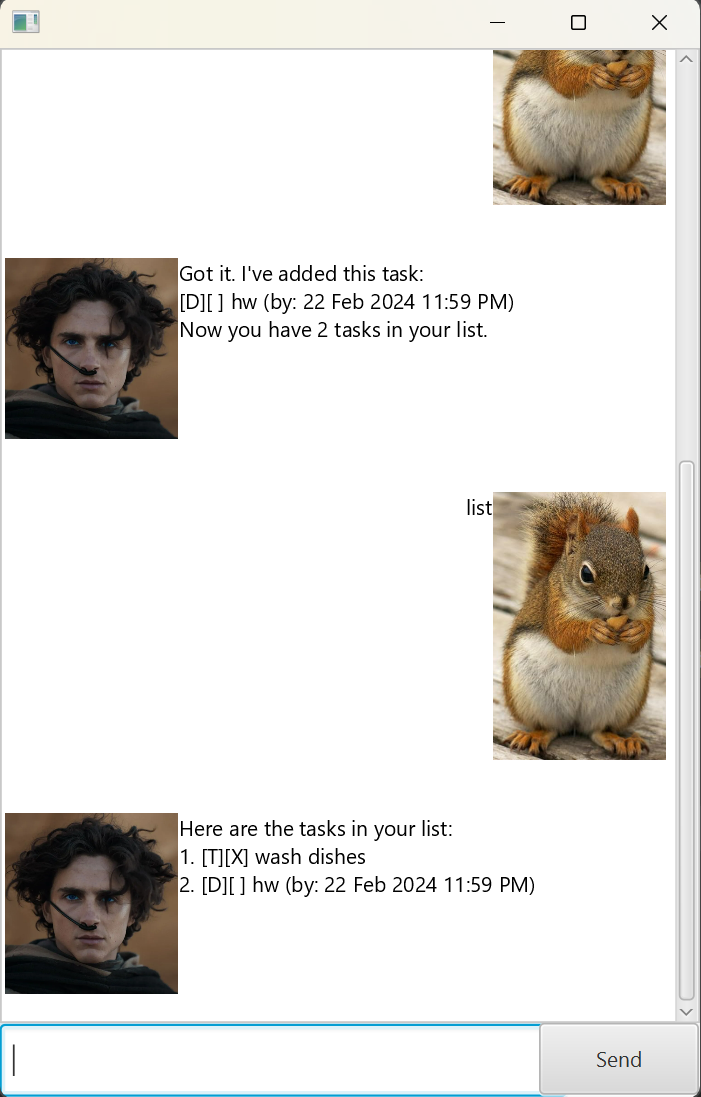
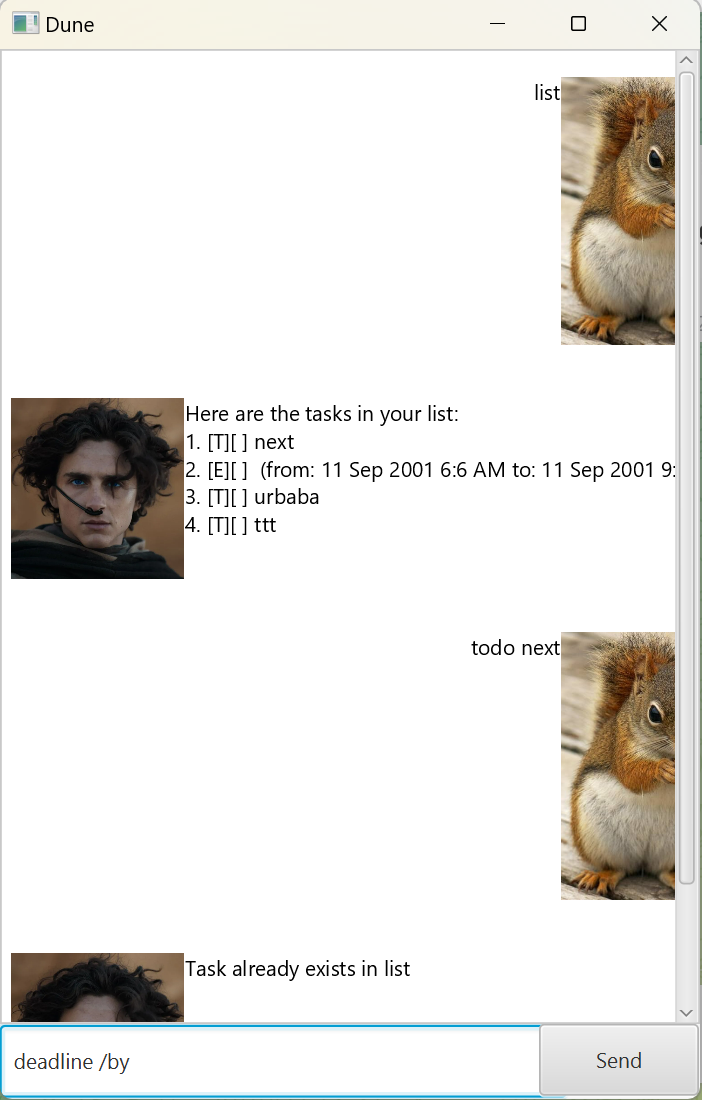
Update README

Changed region(s): [[0.0, 0.0, 1.0, 1.0], [0.0, 0.0, 0.1498, 0.031], [0.5692, 0.8058, 0.5991, 0.8368]]

diff --git a/src/main/java/dune/MainWindow.java b/src/main/java/dune/MainWindow.java
@@ -60,7 +60,7 @@ public class MainWindow extends AnchorPane {
                 DialogBox.getUserDialog(userText, userPic),
                 DialogBox.getDukeDialog(duneText, dunePic)
         );
-        if (userText.equals("bye")) {
+        if (userText.toLowerCase().startsWith("bye")) {
             // Create a PauseTransition to introduce a delay
             PauseTransition delay = new PauseTransition(Duration.seconds(1.5));
             delay.setOnFinished(event -> Platform.exit());

diff --git a/src/main/java/dune/Main.java b/src/main/java/dune/Main.java
@@ -21,6 +21,7 @@ public class Main extends Application {
             FXMLLoader fxmlLoader = new FXMLLoader(Main.class.getResource("/view/MainWindow.fxml"));
             AnchorPane ap = fxmlLoader.load();
             Scene scene = new Scene(ap);
+            stage.setTitle("Dune");
             stage.setScene(scene);
             fxmlLoader.<MainWindow>getController().setDuke(dune);
             stage.show();

diff --git a/src/main/java/dune/Dune.java b/src/main/java/dune/Dune.java
@@ -82,9 +82,5 @@ public class Dune {
     public String response(String text) {
         return this.parser.response(text, this.tasks, this.storage);
     }
-
-
-
-
-
+    
 }

diff --git a/docs/README.md b/docs/README.md
@@ -7,8 +7,16 @@ command line application that is easy to use and has a simple interface.
 Users are able to create, read and delete tasks. Dune also allows
 users to add three types of tasks: toDos, deadlines, events.
 
+* [Quickstart] (#-quickstart)
+* [Features] (#-features)
+  * [Adding toDos] (###-adding-toDos)
 
-## Adding toDos
+
+## Quickstart
+
+## Features
+
+### Adding toDos
 
 To add a toDo, type `todo` followed by the description of the task, 
 e.g. `todo read book`. The following is an example of an expected
@@ -29,7 +37,7 @@ it will not be added to the list.
 Both pointers apply to all types of tasks.
 
 
-## Adding deadlines
+### Adding deadlines
 
 To add a toDo, type `todo` followed by the description and deadline
 of the task, e.g. `deadline submit report /by 2020-12-12T06:06`. 
@@ -43,7 +51,7 @@ OOPS! Enter date in format yyyy-mm-ddThh:mm
 
 This means you should follow the given date and time format.
 
-## Adding events
+### Adding events
 
 This is almost the same as adding deadlines, except that you need 2
 dates, the start and end date. The expected output is the same as above. The correct format is: 
@@ -52,7 +60,7 @@ However, if you swap the 2 dates, the start date would be before the end date,
 and you would get a reminder indicating the event was not successfully added.
 
 
-## Listing tasks
+### Listing tasks
 
 To list all tasks, type `list`. The list of all tasks will be displayed.
 Any additional inputs after `list` is ignored. The following is an 
@@ -65,7 +73,7 @@ Here are the tasks in your list:
 3. [E][ ] project meeting (from: 12 Dec 2020 6:6AM to: 12 Dec 2020 7:6AM)
 ```
 
-## Deleting tasks
+### Deleting tasks
 
 To delete a task, type `delete` followed by the index of the task, e.g. 
 `delete 2`. The following is an example of an expected output:
@@ -76,24 +84,29 @@ Noted. I've removed this task:
 Now you have 2 tasks in the list.
 ```
 
-## (Un)marking tasks
+### (Un)marking tasks
 
 To (un)mark a task as done, type `(un)mark` followed by the number of the task, 
 e.g. `(un)mark 1`. (Un)mark means either mark or unmark. Same for unmark. In the above example, `mark 4` would be 
 outside the range of the list, and hence nothing would be done. 
 
-## Finding tasks
+### Finding tasks
 
 To find tasks, type `find` followed by the keyword, e.g. `find book`. 
 Then all tasks whose descriptions containing the keyword will be displayed.
 
-## Ask For Help
+### Ask For Help
 
 If you ever forget the commands or feel lost, type `help` and you will
-be reminded of the commands :)
+be reminded of the available commands :)
 
-## Exit
+### Exit
 
 Thankfully, this is not Vim and you can leave easily. Just type `bye` and
-the window will close after a few seconds. 
+the window will close after a few seconds.
+
+### Other features
+
+* Automatic saving and retrieval of tasks
+* Custom reminders for invalid inputs
 
